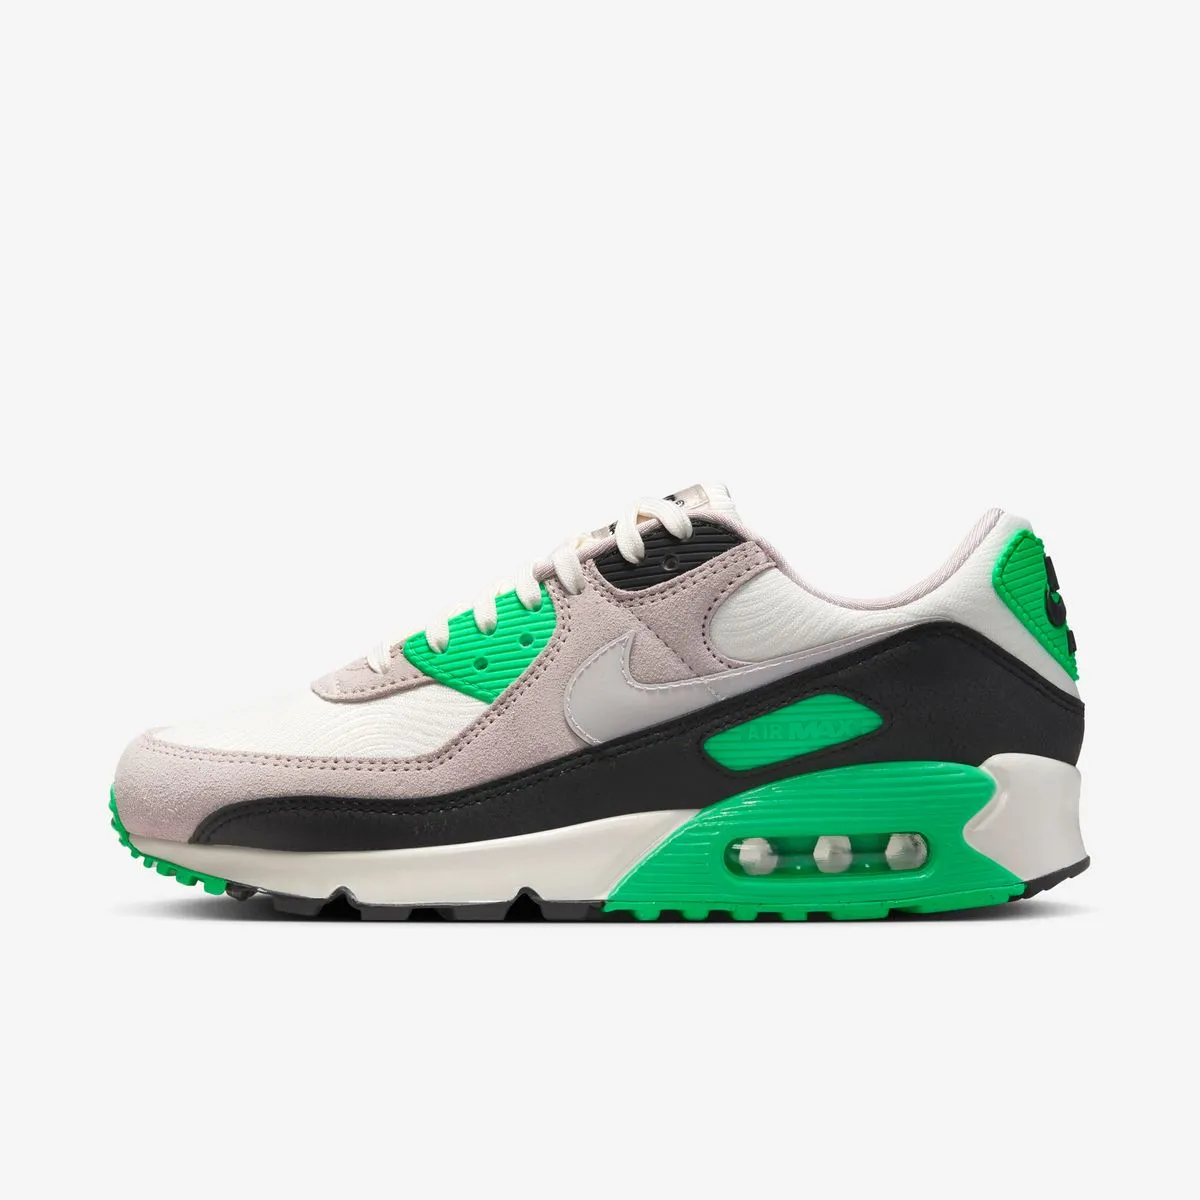
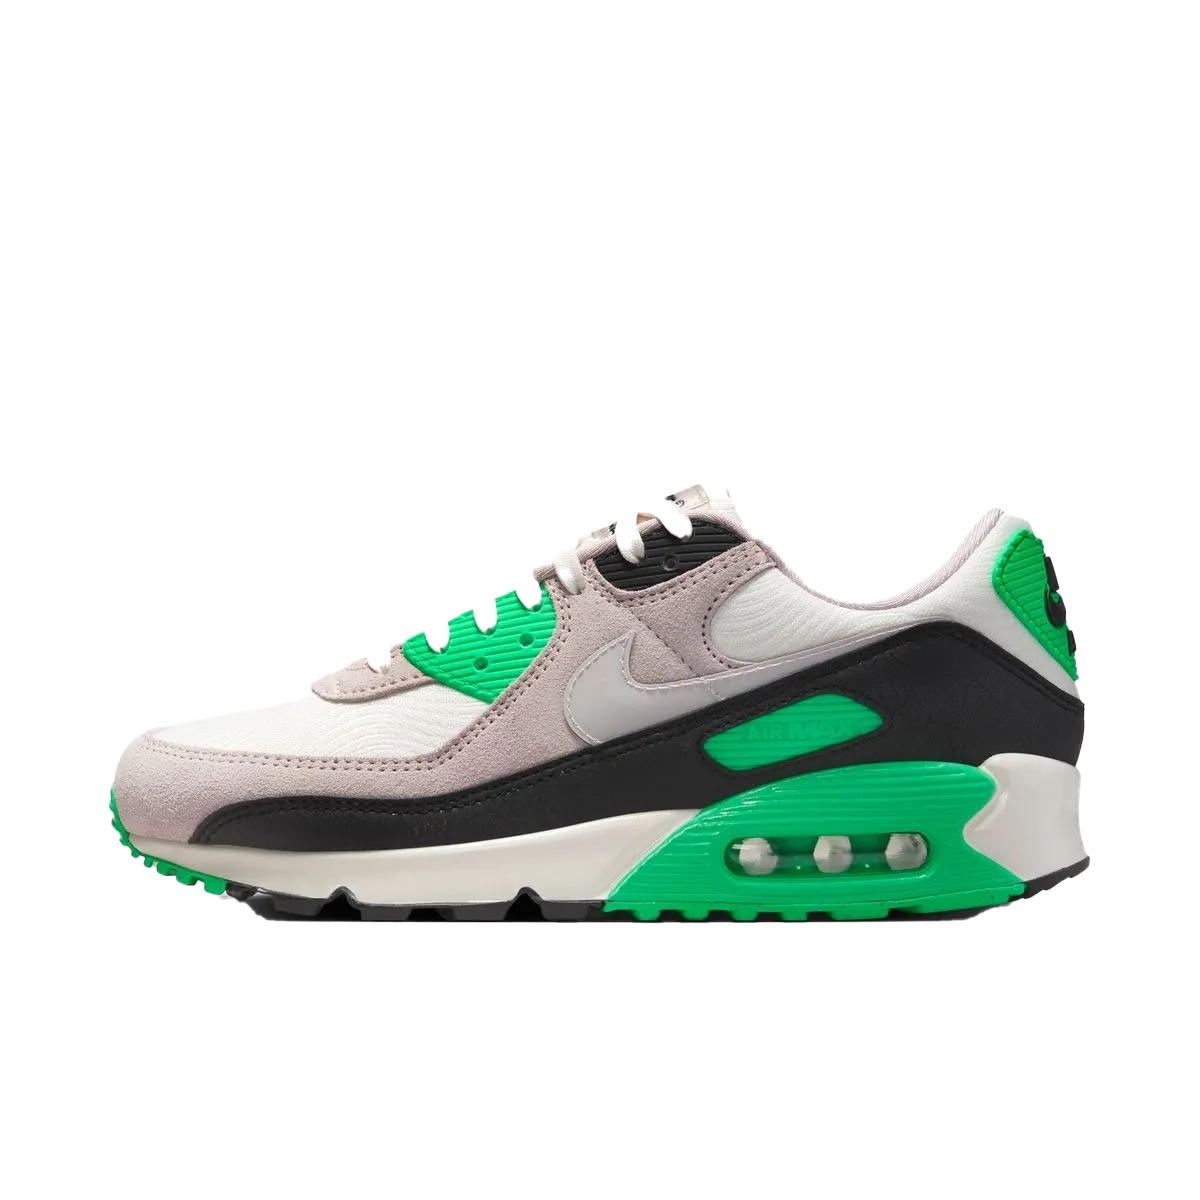
Se le quita el fondo blanco a los cover y se ajusta el slider para que sea dinamico

diff --git a/lib/widgets/slider_shoes.dart b/lib/widgets/slider_shoes.dart
@@ -1,57 +1,78 @@
 import 'package:flutter/material.dart';
 
+import 'package:provider/provider.dart';
+
+import 'package:flutter_shop_nike/models/shoe_info.dart';
+import 'package:flutter_shop_nike/providers/store_provider.dart';
+
 class SliderShoes extends StatelessWidget {
   const SliderShoes({super.key});
 
   @override
   Widget build(BuildContext context) {
+    List<ShoeInfo> storeProducts =
+        Provider.of<StoreProvider>(context).storeProducts;
+
     return SizedBox(
         width: double.infinity,
-        // color: Colors.blue[100],
         child: ListView.builder(
-          scrollDirection: Axis.horizontal,
+            scrollDirection: Axis.horizontal,
             itemCount: 3,
             itemBuilder: ((context, index) {
-              return const _Slide();
+              final ShoeInfo product = storeProducts[index];
+              return _Slide(product: product);
             })));
   }
 }
 
 class _Slide extends StatelessWidget {
+  final ShoeInfo product;
   const _Slide({
     super.key,
+    required this.product,
   });
 
   @override
   Widget build(BuildContext context) {
+    final String cover =
+        'assets/images/store/${product.slug}/${product.colors[0].colorName}/${product.colors[0].images[0]}';
+
     return Stack(
       children: [
         const _BackgroundCard(),
-        const Positioned(
+        Positioned(
           left: 10,
           top: 20,
-          child: Text('Nike Air Max 270',
-                  style: TextStyle(fontSize: 23, fontWeight: FontWeight.bold),),
+          child: SizedBox(
+            width: 220,
+            child: Text(
+              product.name,
+              overflow: TextOverflow.ellipsis,
+              style: const TextStyle(fontSize: 20, fontWeight: FontWeight.bold),
+            ),
+          ),
         ),
-        const Positioned(
+        Positioned(
           left: 10,
           top: 45,
-          child: Text('Mens shoes',
-                  style: TextStyle(fontSize: 23, color: Colors.grey),),
+          child: SizedBox(
+            width: 220,
+            child: Text(
+              product.slug,
+              overflow: TextOverflow.ellipsis,
+              style: const TextStyle(fontSize: 18, color: Colors.grey),
+            ),
+          ),
         ),
-
-        const Positioned(
-          left: 10,
-          bottom: 40,
-          child: _Button()),
-
+        const Positioned(left: 10, bottom: 40, child: _Button()),
         Positioned(
           right: 20,
-          bottom: -20,
-          child: Image.asset(
-            'assets/images/azul.png',
-            width: 200,
-          ))
+          bottom: 0,
+          child: Transform.rotate(
+            angle: -0.7,
+            child: Image.asset(cover, width: 200),
+          ),
+        )
       ],
     );
   }
@@ -63,16 +84,16 @@ class _Button extends StatelessWidget {
   @override
   Widget build(BuildContext context) {
     return ElevatedButton(
-      style: ButtonStyle(
-        backgroundColor: MaterialStateProperty.all<Color>(Colors.black),
-        shape: MaterialStateProperty.all<RoundedRectangleBorder>(
+        style: ButtonStyle(
+            backgroundColor: MaterialStateProperty.all<Color>(Colors.black),
+            shape: MaterialStateProperty.all<RoundedRectangleBorder>(
                 RoundedRectangleBorder(
-                    borderRadius: BorderRadius.circular(10)))
-      ),
-      onPressed: () {},
-      child: const Text('Shop now', style: TextStyle(
-        fontWeight: FontWeight.bold,
-        color: Colors.white),));
+                    borderRadius: BorderRadius.circular(10)))),
+        onPressed: () {},
+        child: const Text(
+          'Shop now',
+          style: TextStyle(fontWeight: FontWeight.bold, color: Colors.white),
+        ));
   }
 }
 
@@ -86,9 +107,8 @@ class _BackgroundCard extends StatelessWidget {
       width: 350,
       height: 200,
       decoration: BoxDecoration(
-        color: const Color(0xFFD9F8FB),
-        borderRadius: BorderRadius.circular(10)
-      ),
+          color: const Color(0xFFD9F8FB),
+          borderRadius: BorderRadius.circular(10)),
     );
   }
 }

diff --git a/lib/providers/store_provider.dart b/lib/providers/store_provider.dart
@@ -6,8 +6,8 @@ import 'package:flutter_shop_nike/models/shoes_data.dart';
 
 class StoreProvider extends ChangeNotifier {
   double _selectedSize = 9.0;
-  late ShoesData storeProducts;
-  late ShoeInfo _selectedShoe;
+  List<ShoeInfo> storeProducts = [];
+  ShoeInfo _selectedShoe = ShoeInfo(name: '', slug: '', colors: []);
 
   set selectedSize(double size) {
     _selectedSize = size;
@@ -32,10 +32,8 @@ class StoreProvider extends ChangeNotifier {
     final String response =
         await rootBundle.loadString('assets/data.json');
 
-    print(response);
-    storeProducts = shoesDataFromJson(response);
+    storeProducts = shoesDataFromJson(response).items;
 
-    print(storeProducts.items[0].name);
     notifyListeners();
   }
 }

diff --git a/lib/main.dart b/lib/main.dart
@@ -6,12 +6,10 @@ import 'package:provider/provider.dart';
 import 'package:flutter_shop_nike/screens/screens.dart';
 import 'package:flutter_shop_nike/providers/product_provider.dart';
 
-void main() => runApp(MultiProvider(
-  providers: [
-    ChangeNotifierProvider(create: (_) => ProductProvider()),
-    ChangeNotifierProvider(create: (_) => StoreProvider())
-  ],
-  child: const MyApp()));
+void main() => runApp(MultiProvider(providers: [
+      ChangeNotifierProvider(create: (_) => ProductProvider()),
+      ChangeNotifierProvider(create: (_) => StoreProvider(), lazy: false,)
+    ], child: const MyApp()));
 
 class MyApp extends StatelessWidget {
   const MyApp({super.key});

diff --git a/lib/screens/nike_store/store_catalog_screen.dart b/lib/screens/nike_store/store_catalog_screen.dart
@@ -1,9 +1,7 @@
 import 'package:flutter/material.dart';
 
 import 'package:font_awesome_flutter/font_awesome_flutter.dart';
-import 'package:provider/provider.dart';
 
-import 'package:flutter_shop_nike/providers/store_provider.dart';
 import 'package:flutter_shop_nike/widgets/widgets.dart';
 
 class StoreCatalogScreen extends StatelessWidget {
@@ -12,7 +10,6 @@ class StoreCatalogScreen extends StatelessWidget {
   @override
   Widget build(BuildContext context) {
     final GlobalKey<ScaffoldState> scaffoldKey = GlobalKey<ScaffoldState>();
-    final StoreProvider storeProvider = Provider.of<StoreProvider>(context);
 
     return Scaffold(
       appBar: HeaderAppBar(
